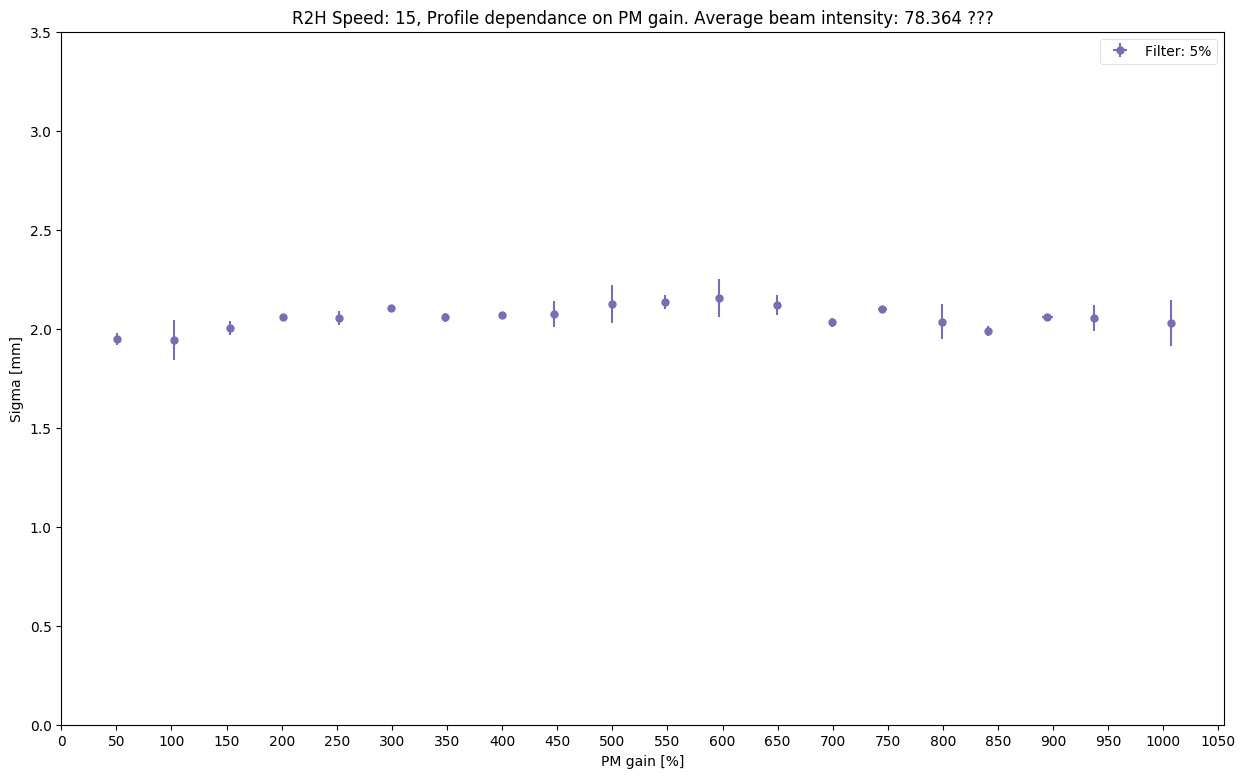
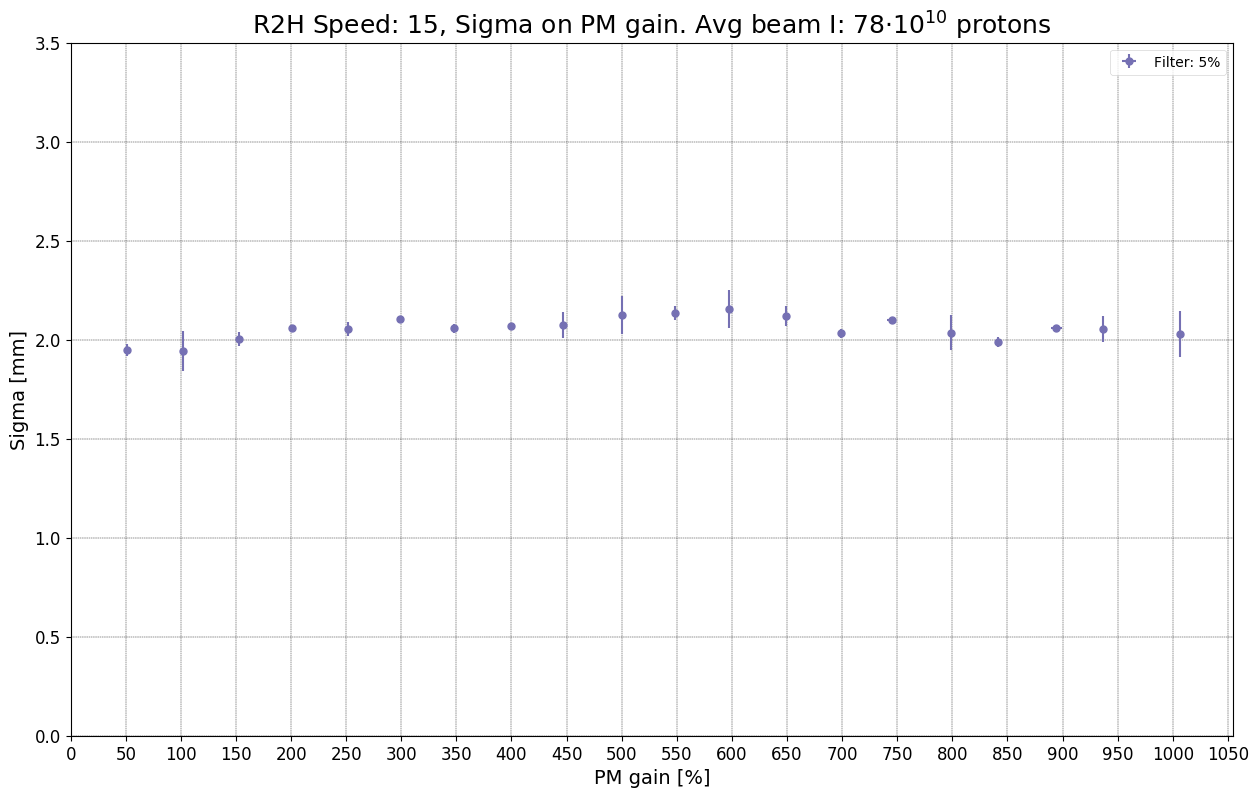
Updated plotting.

diff --git a/analyse_wirescanner.py b/analyse_wirescanner.py
@@ -89,14 +89,15 @@ def plot_profile(infile):
 color_list = plt.get_cmap('Dark2')
 filter_list = ["0% cardboard", "20%", "5%", "2%", "0.5%", "0.2%", "100% no filter", "0% metal" ]
 
-run = [2,4]
+# run = [2,4]
+run = [1,2,3,4,5]
 filter = [0,1,2,3,4,5,6,7]
 # filter = [0,4,5,7]
 # filter = [2,3,4,5]
 # filter = [1,6]
 ring = "R2"
 plane = "H"
-speed = "15"
+speed = "10"
 measured_data_dict = collections.defaultdict(list)
 mean_bct_sum = 0
 mean_bct_length = 0
@@ -289,28 +290,27 @@ for filt in filter:
 	# plt.fill_between(np.asarray(measured_data_dict[(str(filt),"pms_final")]), np.asarray(measured_data_dict[(str(filt),"sigmas_final")])-np.asarray(measured_data_dict[(str(filt),"sigmas_final_errors")]), np.asarray(measured_data_dict[(str(filt),"sigmas_final")])+np.asarray(measured_data_dict[(str(filt),"sigmas_final_errors")]),facecolor=color_list[filt],alpha=0.5)
 	fig = plt.gcf()
 	fig.set_size_inches(15, 9)
-	plt.title(ring + plane + " Speed: " + speed + ", Sigma on PM gain." + " Avg beam I: " + str(round(mean_bct,3)) + "$ \cdot 10^{10}$ protons", fontsize=18)
-	plt.xlabel('PM gain [%]')
-	plt.xticks(np.arange(0, 1051, step=50))
+	plt.title(ring + plane + " Speed: " + speed + ", Sigma on PM gain." + " Avg beam I: " + str(int(round(mean_bct))) + "$ \cdot 10^{10}$ protons", fontsize=18)
+	plt.xlabel('PM gain [%]', fontsize=14)
+	plt.xticks(np.arange(0, 1051, step=50), fontsize=12)
 	# plt.yticks(np.arange(1.5, 3, step=0.5)) # For sellected data
-	plt.yticks(np.arange(0, 4, step=0.5)) # For all data
-	plt.ylabel(r'Sigma [mm]')
+	plt.yticks(np.arange(0, 4, step=0.5), fontsize=12) # For all data
+	plt.ylabel(r'Sigma [mm]', fontsize=14)
 	# plt.ylabel(r'Sigma [s]')  # ----------------For time dependent measurement----------------
 	plt.legend(loc='best', prop={'size': 10}).get_frame().set_linewidth(0.5)
-	# plt.rc('grid', linestyle="dashed", color='grey')
-	# plt.grid(True)
+	plt.grid(b=None, which='major', axis='both', linewidth=0.3, linestyle="--", color="black") 
 	# plt.savefig("sigma_on_pm_" + ring + plane + "_filter" + str(filt) + "_speed" + speed + ".png", bbox_inches='tight')
 	# plt.clf()
 
-	plt.figure(4)
-	plt.errorbar(measured_data_dict[(str(filt),"bcts_final")], measured_data_dict[(str(filt),"sigmas_areas_final")], xerr = measured_data_dict[(str(filt),"bcts_final_errors")], yerr = measured_data_dict[(str(filt),"sigmas_areas_final_errors")], color=color_list(filt), fmt='o', markersize=5, label='Filter: ' + filter_list[filt])
-	# plt.fill_between(np.asarray(measured_data_dict[(str(filt),"pms_final")]), np.asarray(measured_data_dict[(str(filt),"sigmas_final")])-np.asarray(measured_data_dict[(str(filt),"sigmas_final_errors")]), np.asarray(measured_data_dict[(str(filt),"sigmas_final")])+np.asarray(measured_data_dict[(str(filt),"sigmas_final_errors")]),facecolor=color_list[filt],alpha=0.5)
-	fig = plt.gcf()
-	fig.set_size_inches(15, 9)
-	plt.title(ring + plane + " Speed: " + speed + ", Sigma $\cdot$ Amplitude on intensity."  + " Avg beam I: " + str(round(mean_bct,3)) + "$ \cdot 10^{10}$ protons", fontsize=18)
-	plt.xlabel('Intensity [???]')
-	plt.ylabel(r'Sigma * Amplitude [mm * mA]')
-	plt.legend(loc='best', prop={'size': 10}).get_frame().set_linewidth(0.5)
+	# plt.figure(4)
+	# plt.errorbar(measured_data_dict[(str(filt),"bcts_final")], measured_data_dict[(str(filt),"sigmas_areas_final")], xerr = measured_data_dict[(str(filt),"bcts_final_errors")], yerr = measured_data_dict[(str(filt),"sigmas_areas_final_errors")], color=color_list(filt), fmt='o', markersize=5, label='Filter: ' + filter_list[filt])
+	# # plt.fill_between(np.asarray(measured_data_dict[(str(filt),"pms_final")]), np.asarray(measured_data_dict[(str(filt),"sigmas_final")])-np.asarray(measured_data_dict[(str(filt),"sigmas_final_errors")]), np.asarray(measured_data_dict[(str(filt),"sigmas_final")])+np.asarray(measured_data_dict[(str(filt),"sigmas_final_errors")]),facecolor=color_list[filt],alpha=0.5)
+	# fig = plt.gcf()
+	# fig.set_size_inches(15, 9)
+	# plt.title(ring + plane + " Speed: " + speed + ", Sigma $\cdot$ Amplitude on intensity."  + " Avg beam I: " + str(int(round(mean_bct))) + "$ \cdot 10^{10}$ protons", fontsize=18)
+	# plt.xlabel('Intensity [$10^{10}$ protons]', fontsize=12)
+	# plt.ylabel(r'Sigma $\cdot$ Amplitude [mm * mA]', fontsize=12)
+	# plt.legend(loc='best', prop={'size': 10}).get_frame().set_linewidth(0.5)
 	# plt.rc('grid', linestyle="-", color='black')
 	# plt.grid(True)
 	# plt.savefig("sigma_times_area_on_intensity_" + ring + plane + "_filter" + str(filt) + "_speed" + speed + ".png", bbox_inches='tight')
@@ -321,27 +321,25 @@ for filt in filter:
 	# plt.fill_between(np.asarray(measured_data_dict[(str(filt),"pms_final")]), np.asarray(measured_data_dict[(str(filt),"sigmas_final")])-np.asarray(measured_data_dict[(str(filt),"sigmas_final_errors")]), np.asarray(measured_data_dict[(str(filt),"sigmas_final")])+np.asarray(measured_data_dict[(str(filt),"sigmas_final_errors")]),facecolor=color_list[filt],alpha=0.5)
 	fig = plt.gcf()
 	fig.set_size_inches(15, 9)
-	plt.title(ring + plane + " Speed: " + speed + ", Sigma $\cdot$ Amplitude on PM gain." + " Avg beam I: " + str(round(mean_bct,3)) + "$ \cdot 10^{10}$ protons", fontsize=18)
-	plt.xlabel('PM gain [%]')
-	plt.xticks(np.arange(0, 1051, step=50))
-	plt.yticks(np.arange(-0.25, 4, step=0.25)) # For all data 
+	plt.title(ring + plane + " Speed: " + speed + ", Sigma $\cdot$ Amplitude on PM gain." + " Avg beam I: " + str(int(round(mean_bct))) + "$ \cdot 10^{10}$ protons", fontsize=18)
+	plt.xlabel('PM gain [%]', fontsize=14)
+	plt.xticks(np.arange(0, 1051, step=50), fontsize=12)
+	plt.yticks(np.arange(-0.25, 4, step=0.25), fontsize=12) # For all data 
 	# plt.yticks(np.arange(-0.25, 1, step=0.25)) # For sellected data
-	plt.ylabel(r'Sigma * Amplitude [mm * mA]')
+	plt.ylabel(r'Sigma $\cdot$ Amplitude [mm * mA]', fontsize=14)
 	plt.legend(loc='best', prop={'size': 10}).get_frame().set_linewidth(0.5)
+	plt.grid(b=None, which='major', axis='both', linewidth=0.3, linestyle="--", color="black") 
 	# plt.rc('grid', linestyle="dashed", color='grey')
 	# plt.grid(True)
 	# plt.savefig("sigma_times_area_on_pm_" + ring + plane + "_filter" + str(filt) + "_speed" + speed + ".png", bbox_inches='tight')
 	# plt.clf()
 
 plt.figure(3)
-# ax.grid(color='r', linestyle='--', linewidth=2)
 plt.savefig("all_sigma_on_pm_" + ring + plane + "_speed" + speed + ".png", bbox_inches='tight')
 
 # plt.figure(4)
 # plt.savefig("all_sigma_times_area_on_intensity_" + ring + plane + "_speed" + speed + ".png", bbox_inches='tight')
 
 plt.figure(5)
-# plt.rc('grid', linestyle=':', color='g')
-# plt.grid(True)
 plt.savefig("all_sigma_times_area_on_pm_" + ring + plane + "_speed" + speed + ".png", bbox_inches='tight')
 
